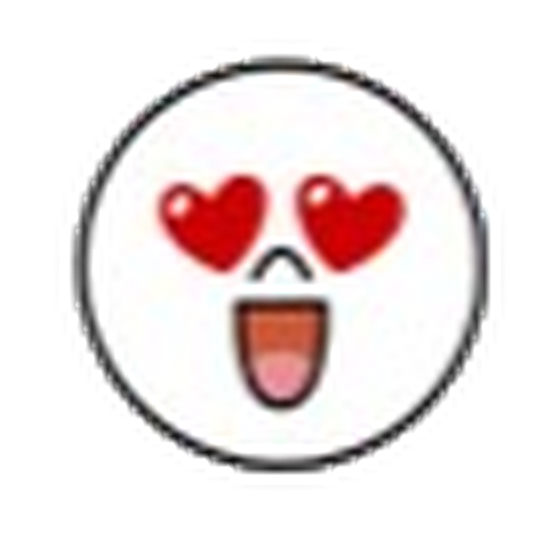
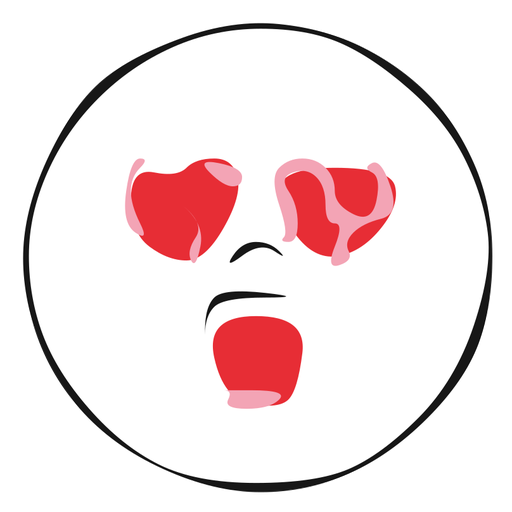
fix(desktop): vectorize reference reaction assets

Changed region(s): [[0.0312, 0.0312, 0.875, 0.875], [0.3125, 0.125, 0.9688, 0.9688], [0.25, 0.875, 0.3125, 0.9062]]

diff --git a/Vyline/apps/desktop/src/components/message-bubble.tsx b/Vyline/apps/desktop/src/components/message-bubble.tsx
@@ -675,7 +675,7 @@ const REACTION_EMOJI: Record<number, string> = {
   7: "😲",
 };
 
-// 見本画像から切り出して背景透過・高解像度化した標準リアクション
+// 見本画像をベクタートレースし、背景透過PNGに書き出した標準リアクション
 const REACTION_ASSET: Record<number, string> = {
   2: "/reactions/line-nice.png",
   3: "/reactions/line-love.png",
